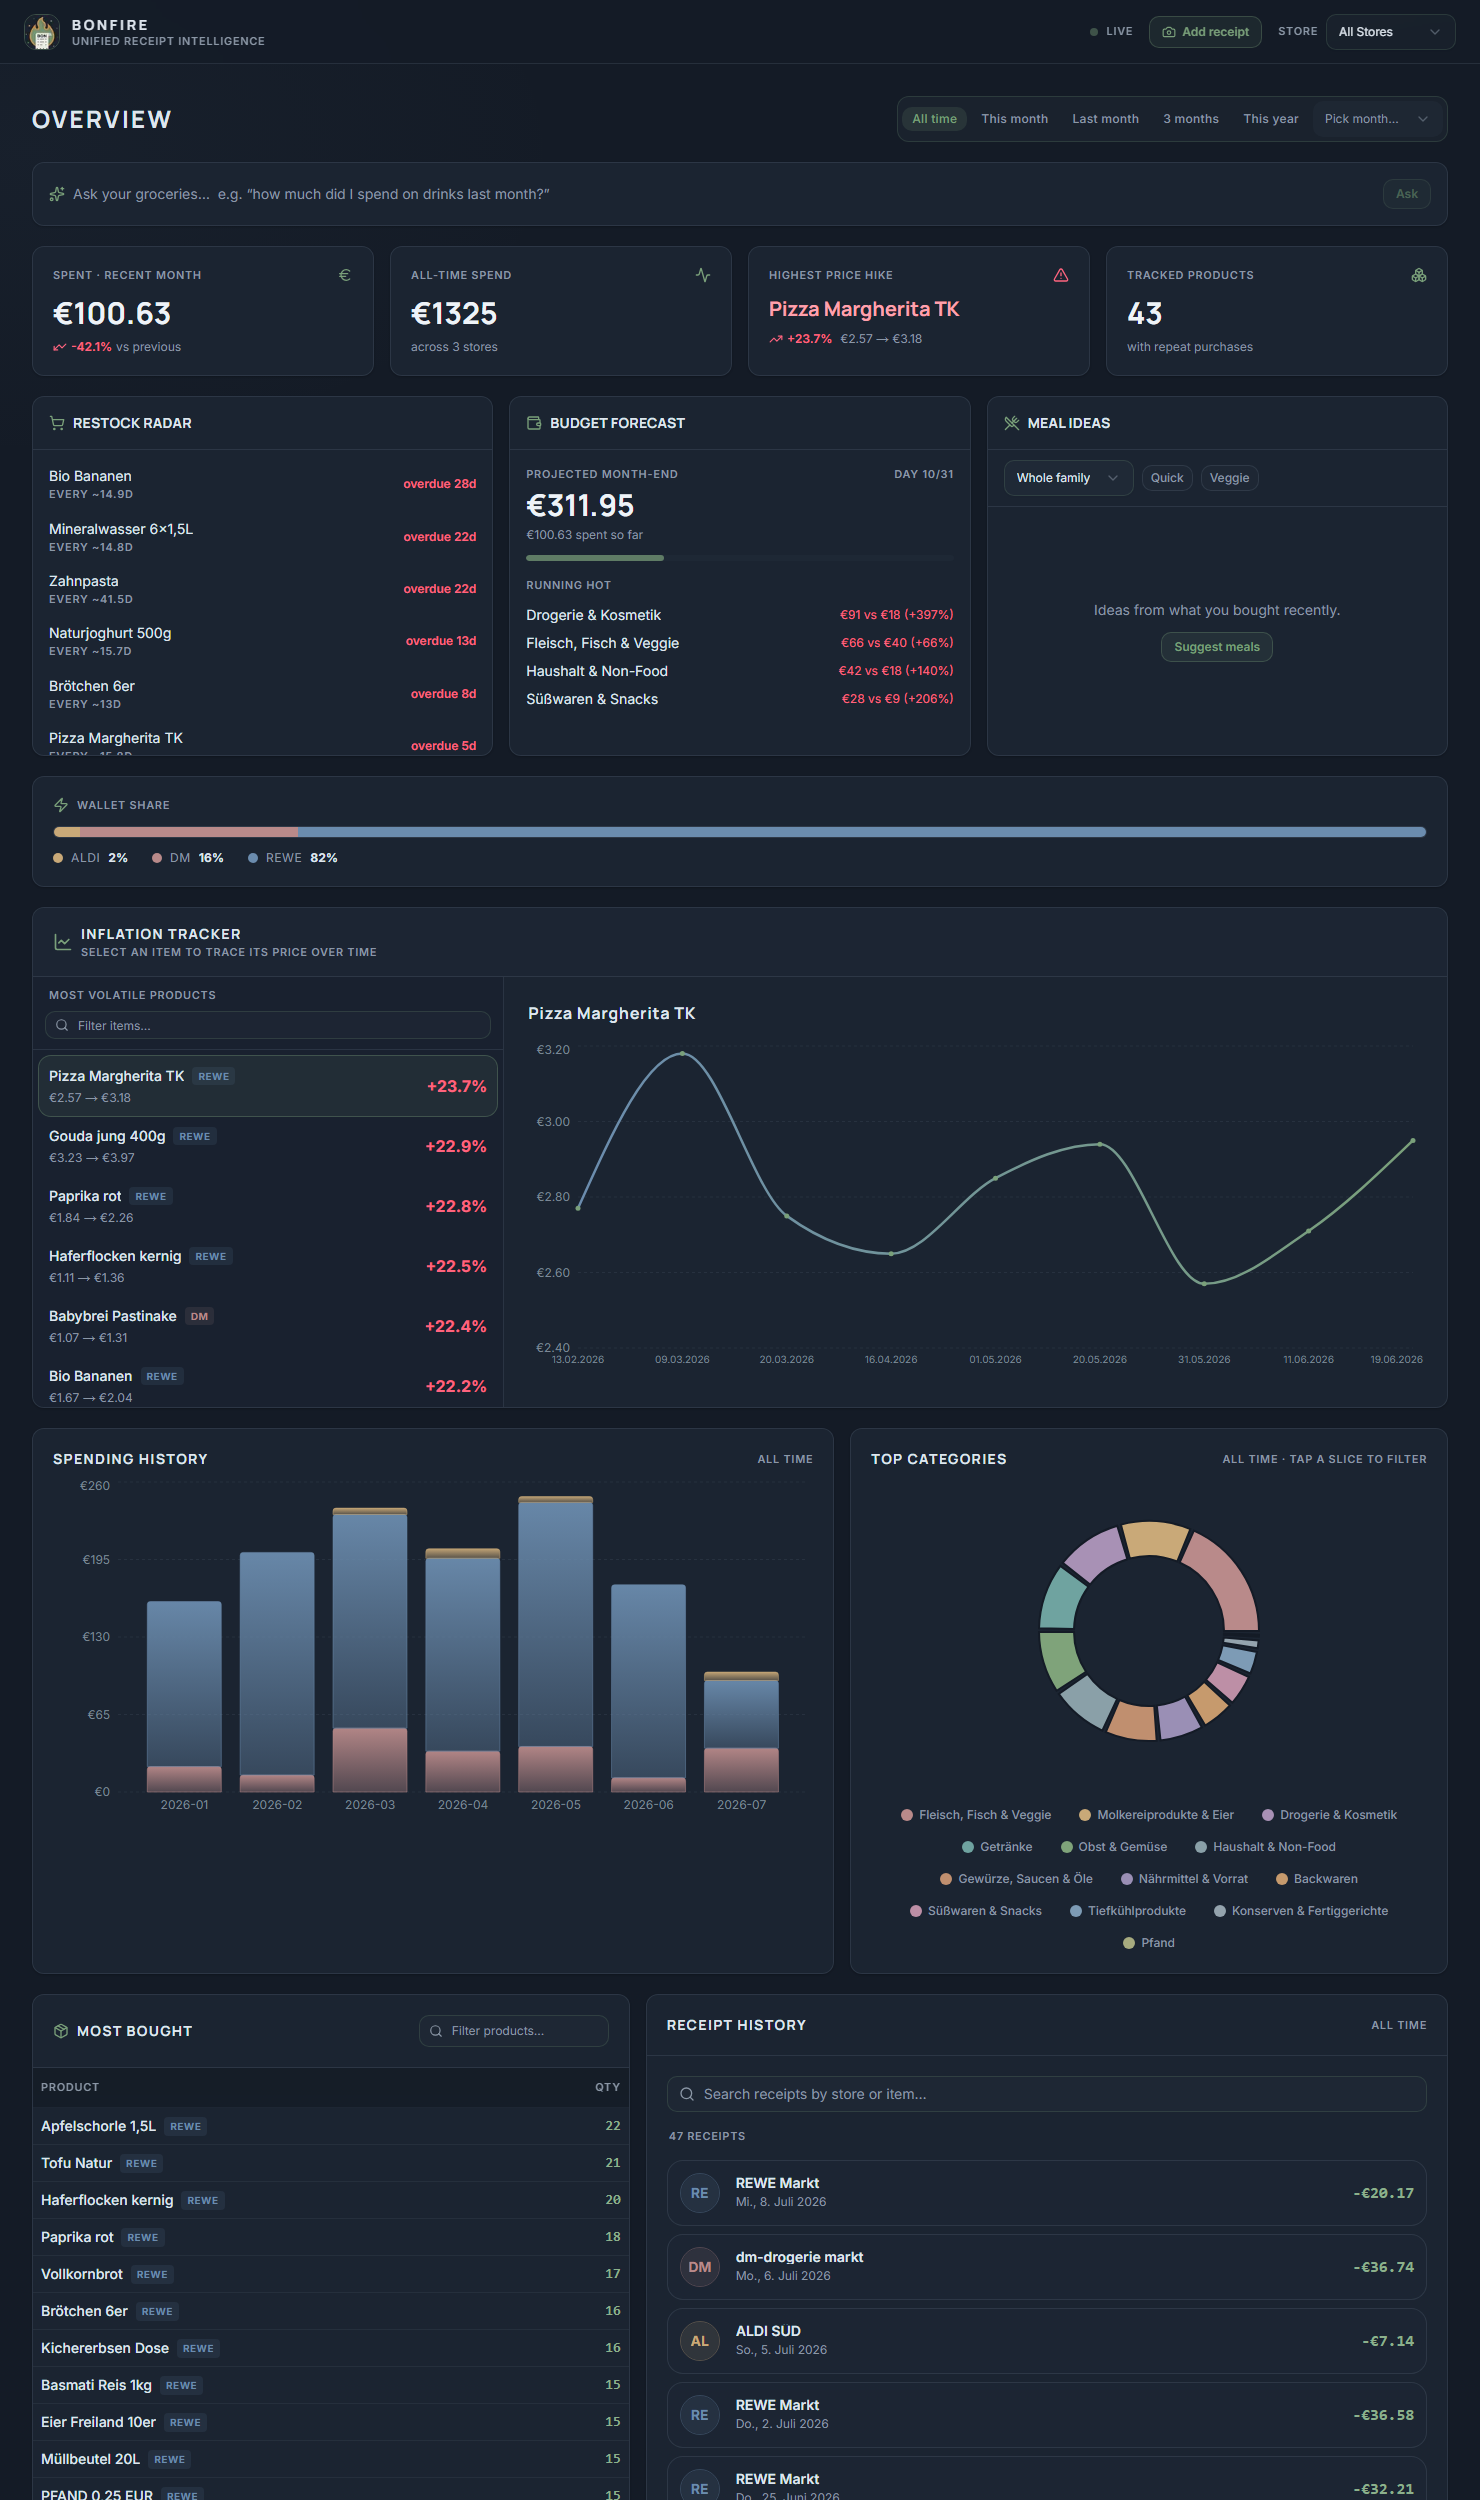
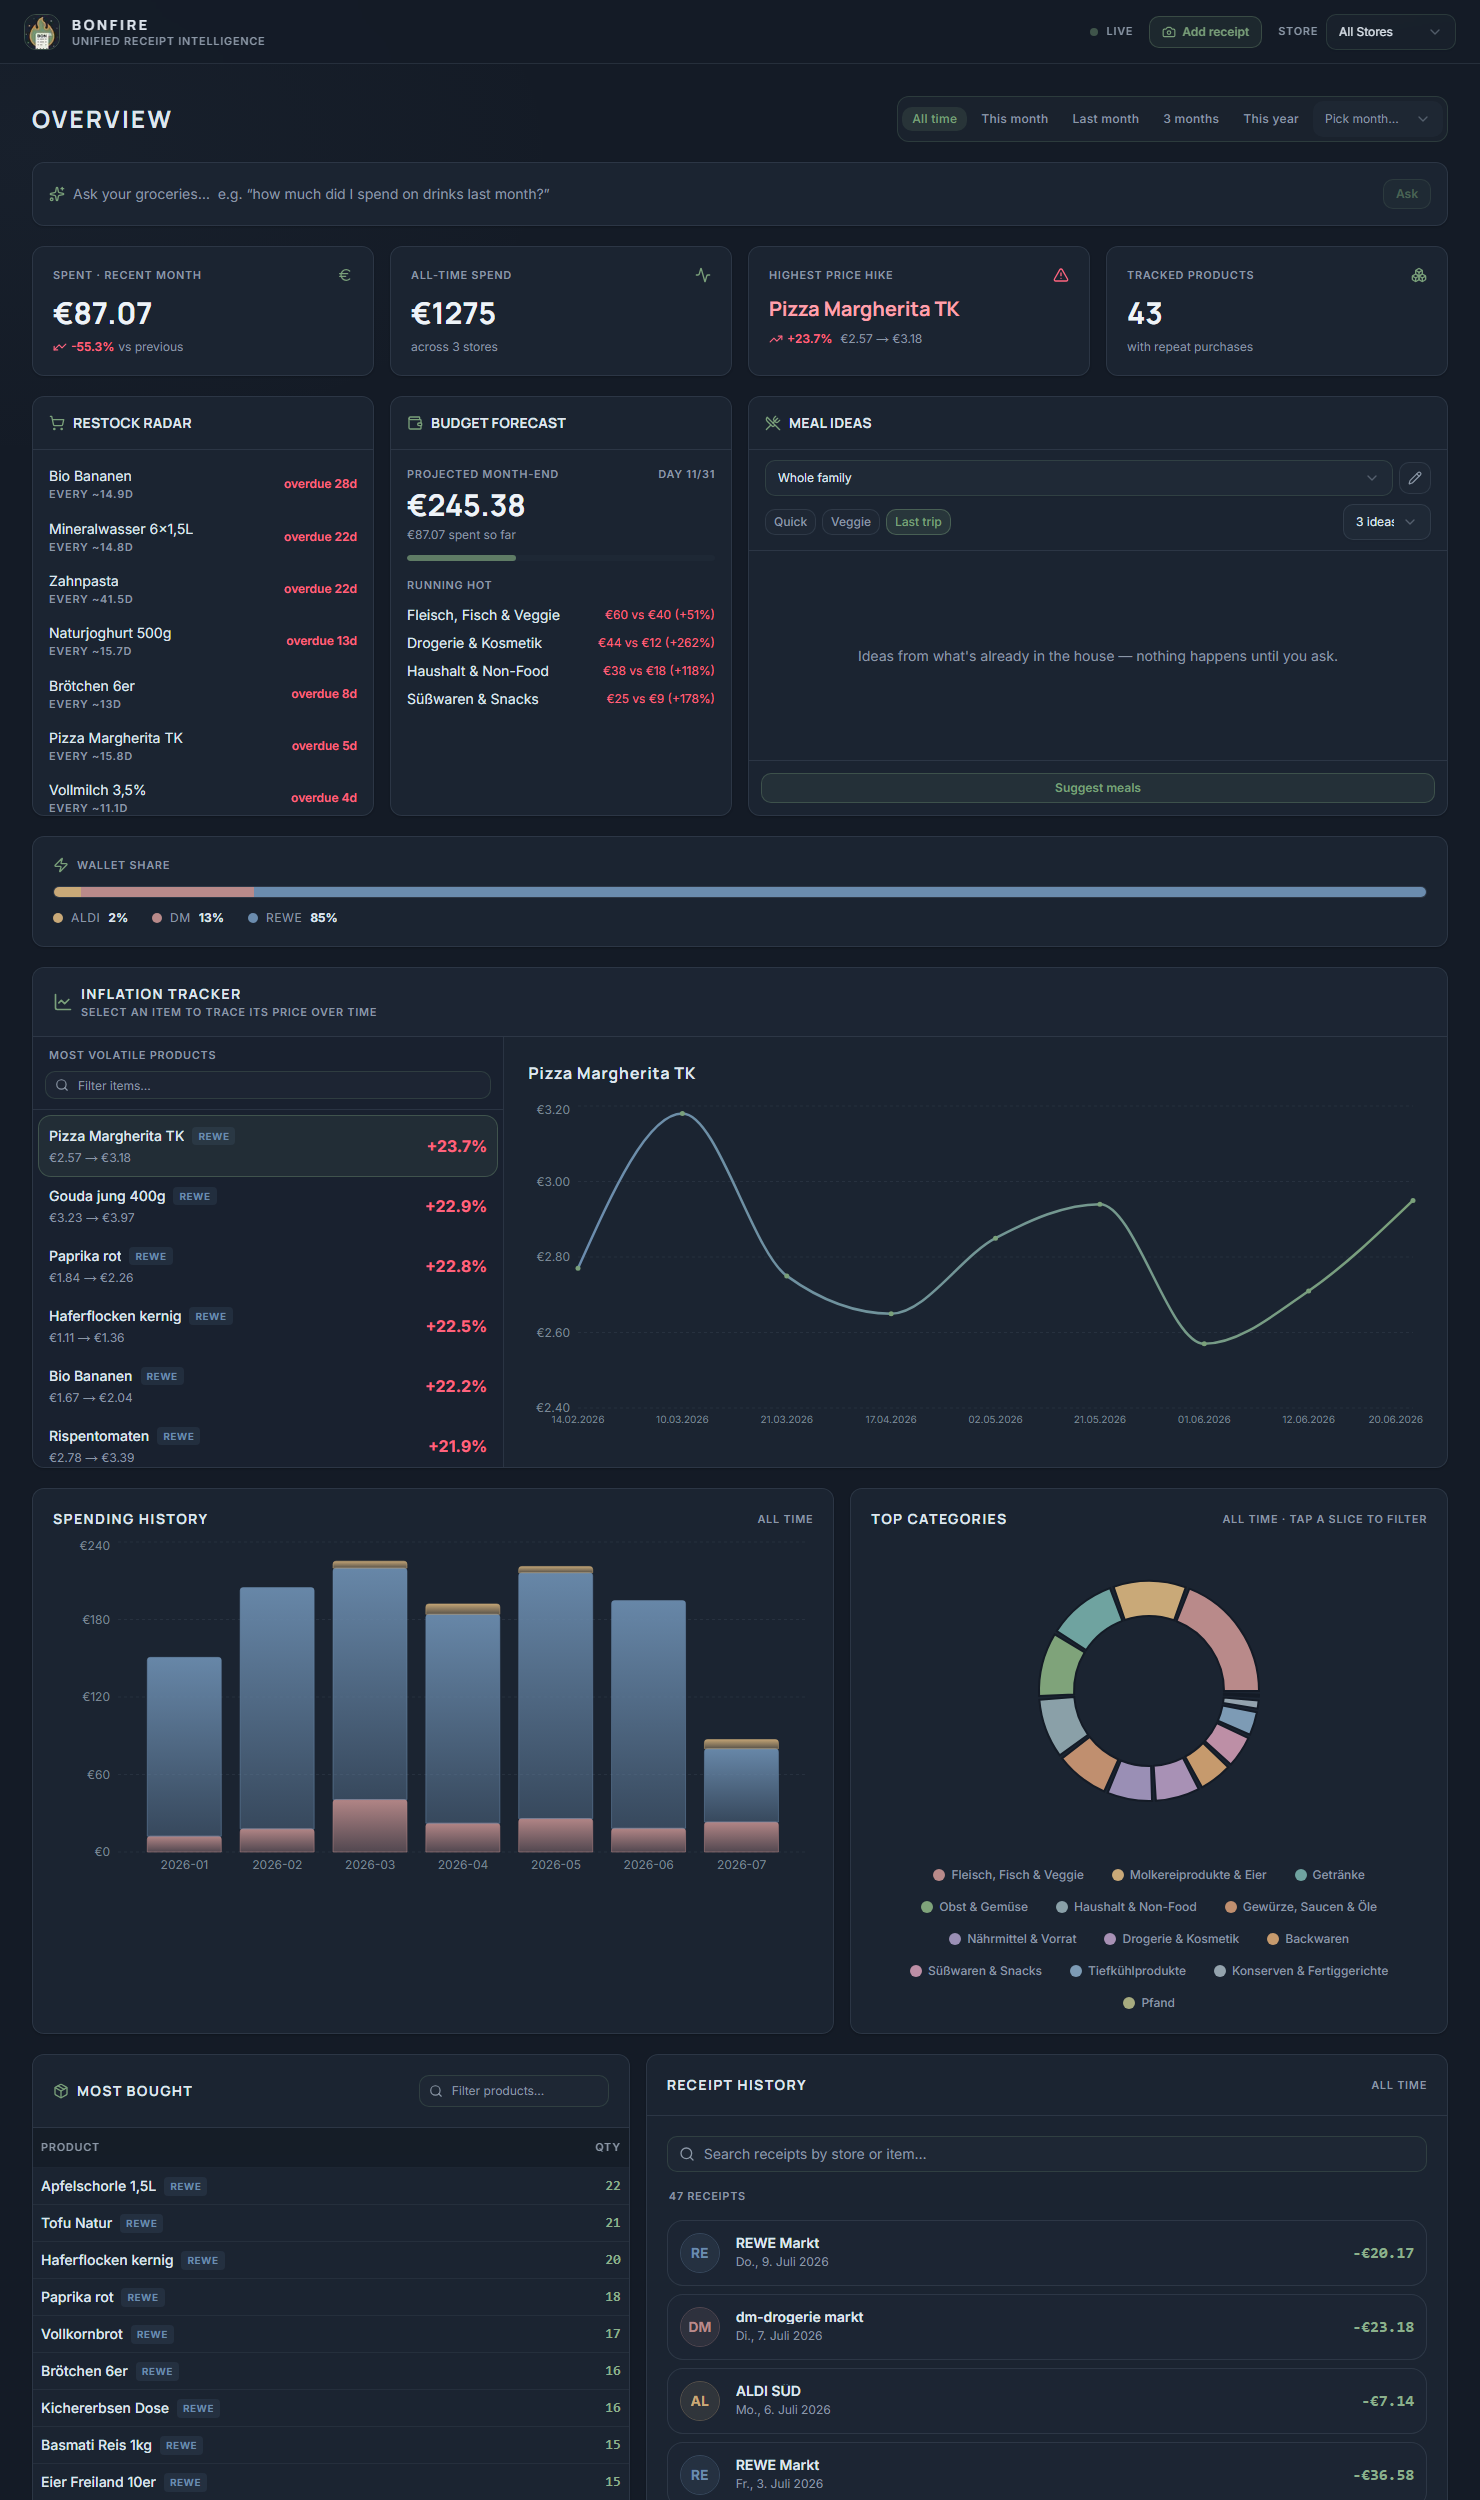
Make the meal feature household-agnostic
Household specifics (diets, allergies, small children) belong in the
user's own meal profiles, not in the code. The built-ins shrink to two
generic ones (adult, family), the LLM schema's baby_adaptation field
becomes a profile-neutral 'adaptation', and the hardcoded infant-safety
disclaimer in the card is gone — a profile's prompt can say whatever a
household needs it to.

Profiles seeded by older versions survive as data: seeding now demotes
built-ins that are no longer shipped to regular user profiles, so they
become editable and deletable instead of orphaned. Demo seeder and
README screenshots refreshed to match.

diff --git a/frontend/src/components/dashboard/MealsCard.tsx b/frontend/src/components/dashboard/MealsCard.tsx
@@ -112,9 +112,6 @@ export function MealsCard() {
   }
 
   const currentProfile = profiles.find((p) => p.key === profileKey)
-  const showBabyDisclaimer =
-    ["toddler", "family"].includes(profileKey) ||
-    (result?.meals ?? []).some((m) => m.baby_adaptation)
 
   const chip = (active: boolean, onClick: () => void, label: string, title?: string) => (
     <button
@@ -260,18 +257,13 @@ export function MealsCard() {
                   </div>
                 )}
                 {m.note && <div className="mt-1 text-xs text-muted-foreground/80">{m.note}</div>}
-                {m.baby_adaptation && (
+                {m.adaptation && (
                   <div className="mt-1 text-xs italic text-muted-foreground/80">
-                    For the little one: {m.baby_adaptation}
+                    {m.adaptation}
                   </div>
                 )}
               </div>
             ))}
-            {showBabyDisclaimer && (
-              <p className="pt-1 text-[11px] leading-snug text-muted-foreground/70 sm:col-span-2">
-                General guidance for a 1-year-old — always supervise meals, check textures to avoid choking, and watch for allergies. Not medical advice.
-              </p>
-            )}
           </div>
         )}
       </div>

diff --git a/frontend/src/lib/api.ts b/frontend/src/lib/api.ts
@@ -216,7 +216,7 @@ export const getBudget = async () => {
 
 export interface Meal {
     title: string; uses: string[]; missing?: string[];
-    time_minutes?: number; note?: string; baby_adaptation?: string | null;
+    time_minutes?: number; note?: string; adaptation?: string | null;
 }
 export interface MealOptions {
     profile?: string; quick?: boolean; vegetarian?: boolean;

diff --git a/backend/app/meal_profiles.py b/backend/app/meal_profiles.py
@@ -5,6 +5,10 @@ as a last-resort fallback if the table is empty. A profile's ``prompt`` is
 only the persona/instruction block — the ingredient list, constraints and the
 JSON output schema are appended in code (``insights.meal_suggestions``), so
 user-edited prompts can't break response parsing.
+
+These are deliberately generic starting points: edit them or add your own in
+the dashboard (household-specific needs — diets, allergies, small children —
+belong in your own profiles, not in the code).
 """
 
 # key -> (display name, prompt)
@@ -13,26 +17,10 @@ BUILTIN_MEAL_PROFILES = {
         "Adults",
         "Suggest simple, tasty dinners for adults.",
     ),
-    "toddler": (
-        "1-year-old",
-        "Suggest meals suitable for a 1-year-old (12+ months). Follow these safety "
-        "rules STRICTLY:\n"
-        "- NO added salt and NO added sugar (a baby's kidneys can't handle much salt).\n"
-        "- No honey.\n"
-        "- Avoid choking hazards: quarter grapes and cherry tomatoes lengthwise, no "
-        "whole nuts (only smooth nut butter thinly spread), no hard raw chunks — cook "
-        "vegetables until soft.\n"
-        "- Soft, mashable or easy-to-chew, finger-food-friendly textures.\n"
-        "Favour iron-rich, nutrient-dense ingredients and keep it very simple. In each "
-        "meal's note, give a short prep/safety tip (texture, how to cut) and flag common "
-        "allergens (egg, dairy, wheat, nuts, fish) if the meal contains them.",
-    ),
     "family": (
         "Whole family",
-        "Suggest meals the whole family can eat together, easily adapted for a "
-        "1-year-old. Cook once. For the baby's portion: set some aside BEFORE adding "
-        "salt, sugar or spicy seasoning, and mash or cut it into soft small pieces; "
-        "avoid choking hazards (quarter grapes/tomatoes, no whole nuts). Use the "
-        "baby_adaptation field to explain briefly how to adapt each meal.",
+        "Suggest meals the whole family can eat together — broadly liked, easy "
+        "to scale up, nothing too spicy. Use the adaptation field to note how "
+        "to tweak a meal for picky eaters or different portions.",
     ),
 }

diff --git a/backend/app/database.py b/backend/app/database.py
@@ -104,14 +104,25 @@ def seed_categories():
 
 
 def seed_meal_profiles():
-    """Insert missing built-in meal profiles (never overwrites user edits)."""
+    """Insert missing built-in meal profiles (never overwrites user edits).
+
+    Profiles that were seeded as built-ins by an older version but are no
+    longer shipped get demoted to regular user profiles: the row (and any
+    edits) survives, it just becomes editable/deletable like any other."""
     with Session(engine) as session:
-        existing = {p.key for p in session.exec(select(MealProfile)).all()}
-        missing = [key for key in BUILTIN_MEAL_PROFILES if key not in existing]
-        for key in missing:
-            name, prompt = BUILTIN_MEAL_PROFILES[key]
-            session.add(MealProfile(key=key, name=name, prompt=prompt, is_builtin=True))
-        if missing:
+        rows = session.exec(select(MealProfile)).all()
+        existing = {p.key for p in rows}
+        changed = False
+        for key in BUILTIN_MEAL_PROFILES:
+            if key not in existing:
+                name, prompt = BUILTIN_MEAL_PROFILES[key]
+                session.add(MealProfile(key=key, name=name, prompt=prompt, is_builtin=True))
+                changed = True
+        for row in rows:
+            if row.is_builtin and row.key not in BUILTIN_MEAL_PROFILES:
+                row.is_builtin = False
+                changed = True
+        if changed:
             session.commit()
 
 

diff --git a/backend/telegram_bot.py b/backend/telegram_bot.py
@@ -43,7 +43,7 @@ HELP = (
     "• Send a photo of any receipt → I'll add it\n"
     "• /restock — what's running low\n"
     "• /budget — this month's spend forecast\n"
-    "• /meals — dinner ideas (try /meals toddler or /meals family)\n"
+    "• /meals — dinner ideas (any profile key works, e.g. /meals family)\n"
     "• Ask anything, e.g. \"how much on drinks last month?\""
 )
 
@@ -136,9 +136,9 @@ def cmd_meals(chat_id, profile: str = "family") -> None:
         note = m.get("note")
         if note:
             lines.append(f"   ↳ {note}")
-        baby = m.get("baby_adaptation")
-        if baby:
-            lines.append(f"   👶 {baby}")
+        adaptation = m.get("adaptation")
+        if adaptation:
+            lines.append(f"   ↳ {adaptation}")
     send(chat_id, "\n".join(lines))
 
 

diff --git a/backend/seed_demo.py b/backend/seed_demo.py
@@ -56,9 +56,9 @@ REWE_PRODUCTS = {
 }
 
 DM_PRODUCTS = {
-    "Windeln Gr. 4 40er": ("Drogerie & Kosmetik", 9.95),
-    "Feuchttücher 4er": ("Drogerie & Kosmetik", 3.95),
-    "Babybrei Pastinake": ("Drogerie & Kosmetik", 1.15),
+    "Duschgel Sensitive": ("Drogerie & Kosmetik", 1.95),
+    "Sonnencreme LSF 50": ("Drogerie & Kosmetik", 6.45),
+    "Vitamintabletten": ("Drogerie & Kosmetik", 3.15),
     "Shampoo sensitiv": ("Drogerie & Kosmetik", 2.45),
     "Zahnpasta": ("Drogerie & Kosmetik", 1.75),
     "Handseife Nachfüller": ("Drogerie & Kosmetik", 1.95),

diff --git a/backend/app/insights.py b/backend/app/insights.py
@@ -283,7 +283,7 @@ Grocery items bought recently ({ctx["label"]}) — raw receipt names, interpret 
 (fresh produce, meat, dairy). Suggest {count} meals. Return ONLY JSON:
 {{"meals": [{{"title": "...", "time_minutes": 25, "uses": ["items from the list above"],
 "missing": ["ingredients still needed, [] if none"], "note": "one or two short lines",
-"baby_adaptation": "how to adapt for a 1-year-old, or null when not applicable"}}]}}
+"adaptation": "how to adapt the meal to the profile's requirements, or null when not applicable"}}]}}
 """
     try:
         data = extract_json_object(complete(prompt, temperature=0.4))

diff --git a/backend/app/models.py b/backend/app/models.py
@@ -64,7 +64,7 @@ class CategoryMap(SQLModel, table=True):
 
 class MealProfile(SQLModel, table=True):
     """A meal-suggestion persona: the user-editable instruction block of the
-    prompt. Built-ins (adult/toddler/family) are seeded at startup; their
+    prompt. Built-ins (see meal_profiles.py) are seeded at startup; their
     prompts may be edited but they can't be deleted, and their keys stay
     stable so the Telegram bot and existing URLs keep working."""
     id: int | None = Field(default=None, primary_key=True)

diff --git a/README.md b/README.md
@@ -46,10 +46,10 @@ a Raspberry Pi.
 - **Ask your groceries** — natural-language questions ("how much did I spend
   on drinks last month?") become guarded, read-only SQL.
 - **Meal ideas** — recipe suggestions from what's already in the house
-  (your latest shopping trip per store), with cooking time, what's still
-  missing, and 1-year-old adaptations. The prompts behind the built-in
-  adult / toddler / family profiles are editable, and you can add your own
-  profiles right in the dashboard.
+  (your latest shopping trip per store), with cooking time and what's still
+  missing. Suggestions are driven by meal profiles whose prompts you edit —
+  or create from scratch — right in the dashboard, so diets, allergies, or
+  household quirks live in your data, not in the code.
 - **Telegram bot** — snap a photo of a receipt to file it; `/restock`,
   `/budget`, `/meals`, or plain-language questions from your phone.
 - **Pluggable LLM** — Ollama (local), OpenAI, or Gemini. Drop an API key in